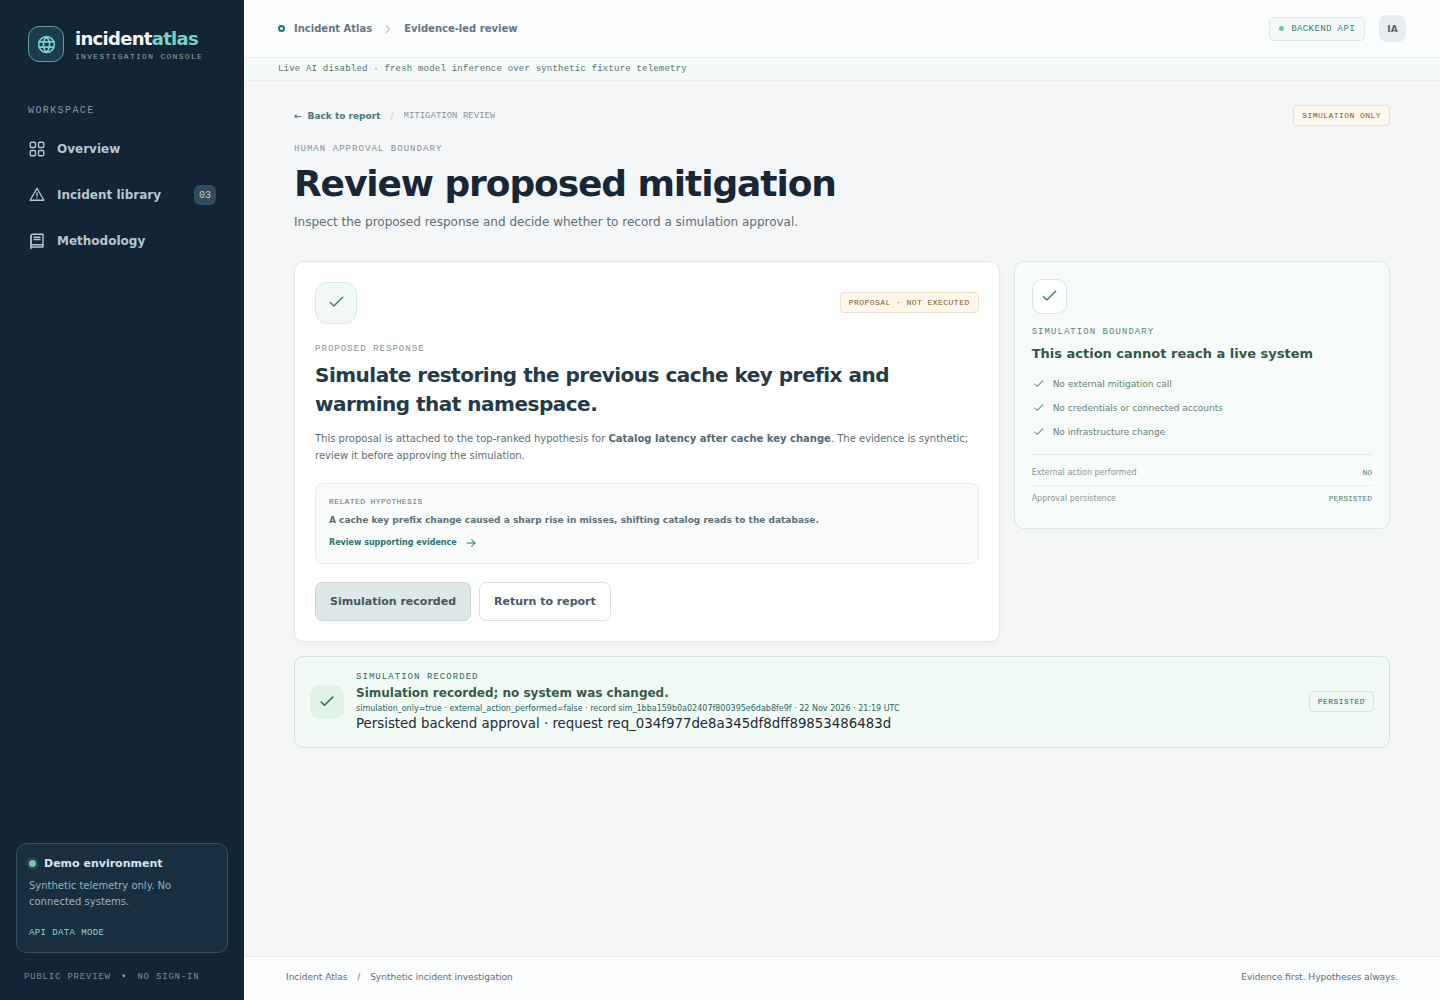
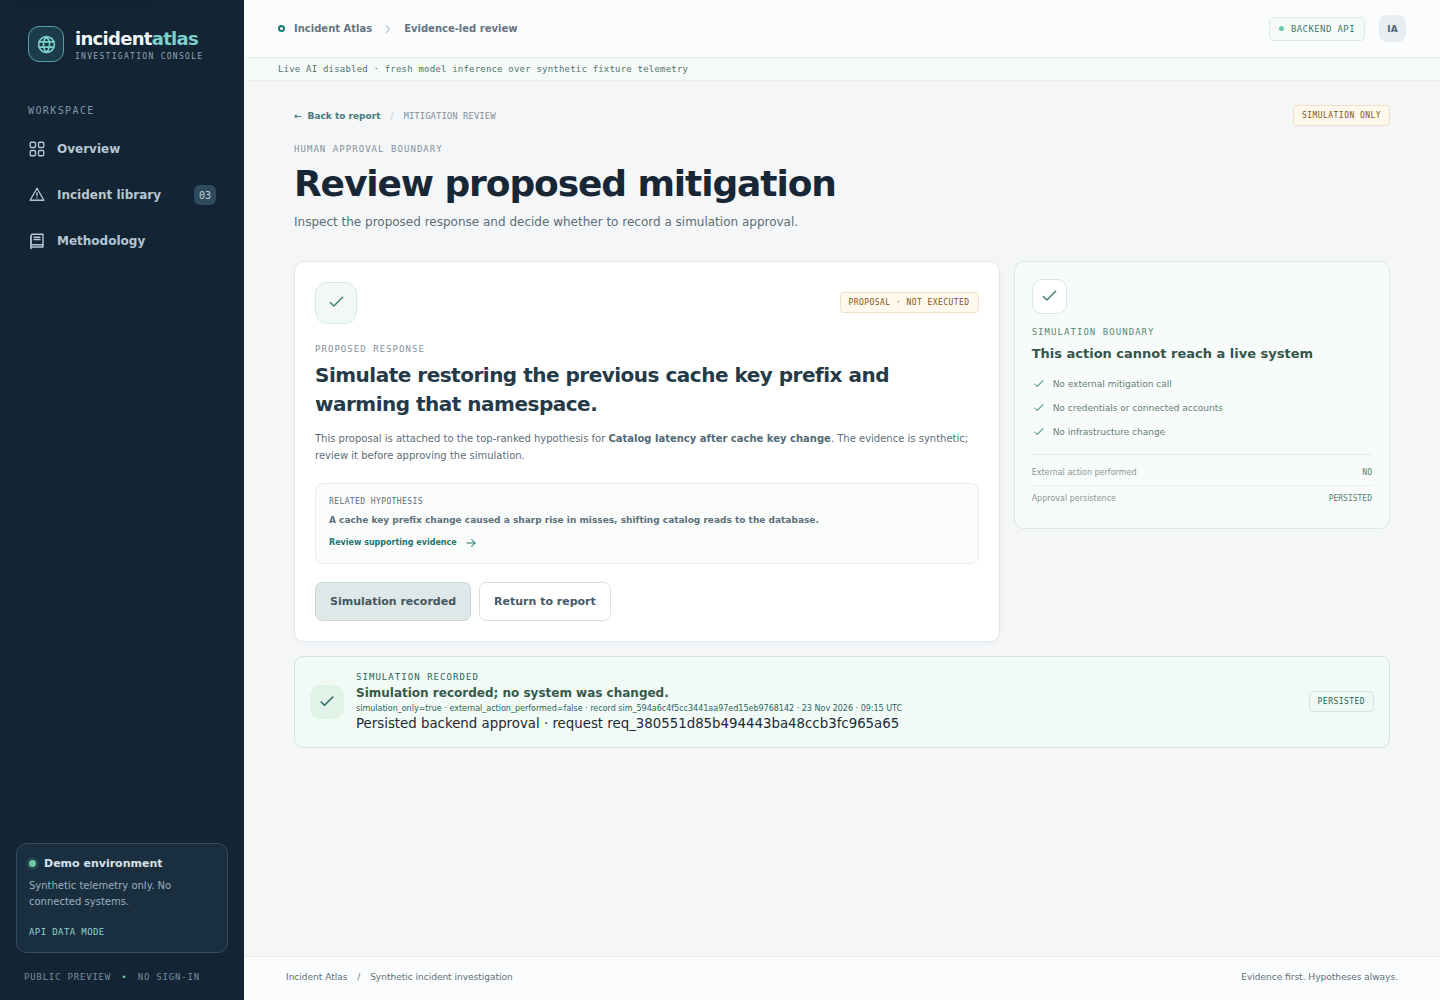
Refresh final audit report and CI screenshots

diff --git a/docs/predeployment-release-report.md b/docs/predeployment-release-report.md
@@ -1,13 +1,13 @@
 # Incident Atlas release report
 
 **Reviewed:** 2026-11-23  
-**Application revision verified:** [`b8168985fe2bd7fec807d6691f98824b0f9b4f46`](https://github.com/shaviJayasingha/incident-atlas/commit/b8168985fe2bd7fec807d6691f98824b0f9b4f46)  
-**Full CI run for this application revision:** [Run #24 — passed](https://github.com/shaviJayasingha/incident-atlas/actions/runs/45122787848)  
+**Release-candidate application revision:** [`8f7b31fbceb34ec45724916b0dd493f99c68bc80`](https://github.com/shaviJayasingha/incident-atlas/commit/8f7b31fbceb34ec45724916b0dd493f99c68bc80), proposed by [PR #5](https://github.com/shaviJayasingha/incident-atlas/pull/5).  
+**Full CI run for this application revision:** [Run #27 — passed](https://github.com/shaviJayasingha/incident-atlas/actions/runs/45145232854); all five jobs succeeded.  
 **Repository:** [shaviJayasingha/incident-atlas](https://github.com/shaviJayasingha/incident-atlas)  
 **Hosting status:** pre-deployment; no public URL exists.  
-**Release ZIP:** generated from the tracked source tree after this report refresh; its application code matches the verified revision above. The ZIP and SHA-256 sidecar are distributed separately.
+**Release ZIP:** CI generates a tracked-source archive and SHA-256 sidecar for the tested commit and uploads both as a 14-day workflow artifact. The final-tree artifact is available from the latest successful PR validation run; it is checked against the Git tree as part of that job.
 
-This is the current verification summary for the source revision above. Earlier reports and measurements remain historical; they do not replace these results.
+This report distinguishes the release-candidate application revision from the still-unmerged `main` branch. The code change is verified by the linked PR run; a follow-up report/screenshot refresh reruns the same gates against the updated source tree before the PR is ready to merge. Earlier reports and measurements remain historical; they do not replace these results.
 
 ## Release status
 
@@ -15,20 +15,20 @@ The repository and CI are public. The Netlify site, Render API, and managed Post
 
 The replay journey is designed to work without a visitor account or model key. `LIVE_ANALYSIS_ENABLED=false`; no genuine model request or provider-backed quality result has been verified. No OpenTelemetry Demo capture has been imported or evaluated. The repository has no license because the owner has not selected one; see [licensing-decision.md](licensing-decision.md).
 
-## Verification on commit b816898
+## Verification of the release candidate
 
-GitHub Actions run #24 completed successfully on the commit above. All five jobs passed.
+GitHub Actions run #27 completed successfully for the code tree in PR #5. All five jobs passed. The workflow artifact was built from GitHub's PR merge commit; its Git tree is identical to the PR head tree.
 
 | Gate | Observed result |
 |---|---|
 | PostgreSQL 17 migrations and repeat seeding | Passed. CI ran Alembic migrations and ran runtime seeding and fixture-manifest generation twice; both output pairs matched. |
 | Backend suite | **65 passed** against PostgreSQL 17; no PostgreSQL skips in CI. Includes runtime grant allow/deny checks, bounded seven-day rate cleanup, migration/bootstrap preflight, persisted approvals, and replay/evidence behavior. |
 | Python lint and dependency audit | `uv run ruff check .` passed. `uv audit --locked` found no known vulnerabilities or adverse statuses in 62 packages. |
-| Frontend tests and types | **11/11 tests passed**; `npm run typecheck` passed. |
+| Frontend tests and types | **13/13 tests passed**; `npm run typecheck` passed. Tests cover approval read-back and stable anonymous browser identity across reload. |
 | Production frontend build and dependency audit | Build passed with the explicit CI-only reserved `.invalid` API URL. Missing and reserved production URLs were rejected in dedicated checks. `npm audit --audit-level=moderate` found 0 vulnerabilities; the built bundle credential-marker scan passed. |
 | API image and runtime | Docker build passed; evaluation answer-key files were absent. With production-shaped PostgreSQL URLs, migration/bootstrap, runtime-role startup, readiness, stored replay, evidence resolution, and persisted simulated approval passed. Approval response had `simulation_only=true` and `external_action_performed=false`. |
-| Browser walkthrough | Playwright passed against local CI Vite, FastAPI, and PostgreSQL services: desktop replay, evidence navigation, persisted approval, 390 px mobile layout, and keyboard focus. This is not a public-site walkthrough. [Run #24 screenshot artifact](https://github.com/shaviJayasingha/incident-atlas/actions/runs/45122787848/artifacts/14793888268). |
-| Release archive | CI inspected a 102-file tracked-source ZIP; ZIP integrity and exclusion checks passed. The fresh archive delivered with this report is checked against the remote tree for its documentation-refresh revision, with the same application code revision above. |
+| Browser walkthrough | Playwright passed against local CI Vite, FastAPI, and PostgreSQL services: desktop and mobile replay, every citation, persisted approval after reload, a second browser sharing the same IP, no horizontal overflow, and keyboard focus. This is not a public-site walkthrough. [Run #27 screenshot artifact](https://github.com/shaviJayasingha/incident-atlas/actions/runs/45145232854/artifacts/14804016664). |
+| Release archive | CI inspected a **106-file** tracked-source ZIP, checked ZIP integrity/exclusions and uploaded the ZIP plus SHA-256 sidecar as a commit-scoped artifact. The release job compares every archived path and blob to the tested Git tree. The final report/screenshot refresh triggers the same check again. |
 
 ### Commands represented by CI
 
@@ -42,7 +42,7 @@ uv run python -m incident_atlas.cli evaluate-fixtures
 uv run python -m incident_atlas.cli evaluate-expanded
 ```
 
-The frontend job ran `npm ci`, `npm test`, `npm run typecheck`, the production API configuration failure checks, `npm run build`, `npm audit --audit-level=moderate`, and the browser-bundle secret-marker scan. The container job built and ran the API image with PostgreSQL. The browser job ran the local Playwright visitor journey. The archive job ran:
+The frontend job ran `npm ci`, `npm test` (13 tests), `npm run typecheck`, the production API configuration failure checks, `npm run build`, `npm audit --audit-level=moderate`, and the browser-bundle secret-marker scan. The container job built and ran the API image with PostgreSQL. The browser job ran the local Playwright visitor journey. The archive job ran:
 
 ```bash
 python scripts/build_release_zip.py --output "$RUNNER_TEMP/incident-atlas-release.zip"
@@ -50,7 +50,7 @@ python scripts/build_release_zip.py --output "$RUNNER_TEMP/incident-atlas-releas
 
 ### Local checks in this workspace
 
-The local backend suite passed **42 tests and skipped 23 PostgreSQL-marked tests** because this sandbox cannot start the embedded PostgreSQL server (`PermissionError: Operation not permitted`). The full PostgreSQL result above comes from CI, not those local skips. Local `ruff`, Python dependency audit, frontend 11/11 tests, typecheck, production build, npm audit, and evaluation commands passed. Docker/Podman are unavailable locally; the CI container job supplies that evidence. The public deployment smoke command was syntax-checked but not run against real origins because none exist.
+The local backend suite passed **42 tests and skipped 23 PostgreSQL-marked tests** because this sandbox cannot start the embedded PostgreSQL server (`PermissionError: Operation not permitted`). The full PostgreSQL result above comes from CI, not those local skips. Local `ruff`, Python dependency audit, frontend 13/13 tests, typecheck, production build, npm audit, and evaluation commands passed. Local Playwright could not launch Chromium because sandbox socket/ptrace permissions blocked the browser; Docker/Podman are unavailable locally. GitHub-hosted CI supplies the PostgreSQL, container, and browser evidence. The public deployment smoke command was syntax-checked but not run against real origins because none exist.
 
 ## Evaluation evidence and limits
 
@@ -58,7 +58,7 @@ The current rules-regression dataset is **12 project-authored synthetic cases**:
 
[1 lines of base64/hex data omitted]
 
-CI run #24 measured 1.0000 labeled top-1, 1.0000 mean reciprocal rank, 1.0000 expected-support evidence recall, 1.0000 abstention accuracy, and 1.0000 overall decision accuracy on this fixed dataset. These are **synthetic regression results**, not real-world incident accuracy. The earlier 0.5222 support-recall measurement belongs to the historical Step 5/6 evaluation; the present score is tied to the dataset hash above and should not be generalized beyond it.
+CI run #27 measured 1.0000 labeled top-1, 1.0000 mean reciprocal rank, 1.0000 expected-support evidence recall, 1.0000 abstention accuracy, and 1.0000 overall decision accuracy on this fixed dataset. These are **synthetic regression results**, not real-world incident accuracy. The earlier 0.5222 support-recall measurement belongs to the historical Step 5/6 evaluation; the present score is tied to the dataset hash above and should not be generalized beyond it.
 
 The executable OTLP/JSON importer is covered by a synthetic parser fixture only. There is no verified OpenTelemetry Demo version, scenario capture, imported-data hash, label, or Demo evaluation result. Keep all public scenario provenance labeled authored synthetic.
 

diff --git a/docs/portfolio-case-study.md b/docs/portfolio-case-study.md
@@ -14,13 +14,13 @@ Stored replay is the no-key path. Its provenance says `stored_replay` and `model
 
 ## Evaluation and limitations
 
[2 lines of base64/hex data omitted]
 
-The application revision verified in CI is [`b8168985fe2bd7fec807d6691f98824b0f9b4f46`](https://github.com/shaviJayasingha/incident-atlas/commit/b8168985fe2bd7fec807d6691f98824b0f9b4f46). [Run #24](https://github.com/shaviJayasingha/incident-atlas/actions/runs/45122787848) passed 65 backend tests, 11 frontend tests, typecheck, build, dependency audits, PostgreSQL migrations/seeding, container runtime smoke, local desktop/mobile browser smoke, and release ZIP validation. These are CI/local-app results, not public deployment evidence.
+The release-candidate application revision is [`8f7b31fbceb34ec45724916b0dd493f99c68bc80`](https://github.com/shaviJayasingha/incident-atlas/commit/8f7b31fbceb34ec45724916b0dd493f99c68bc80), in [PR #5](https://github.com/shaviJayasingha/incident-atlas/pull/5). [Run #27](https://github.com/shaviJayasingha/incident-atlas/actions/runs/45145232854) passed 65 PostgreSQL-backed backend tests, 13 frontend tests, typecheck, build, dependency audits, migrations and repeated seeding, API container runtime smoke, desktop and mobile replay including every citation, approval restoration after reload, separate same-IP browser approval, and release ZIP validation. These are CI/local-app results, not public deployment evidence.
 
 ## Browser screenshots
 
-The following screenshots are captured by the CI browser run against the local Vite site and local FastAPI/PostgreSQL services seeded with the synthetic scenarios. They show CI/local behavior only; no public deployment is implied.
+The following screenshots are captured by [CI run #27](https://github.com/shaviJayasingha/incident-atlas/actions/runs/45145232854) against the local Vite site and local FastAPI/PostgreSQL services seeded with synthetic scenarios. They show CI/local behavior only; no public deployment is implied. The matching screenshot artifact is retained with the CI run for 14 days.
 
 ![Incident Atlas desktop dashboard with the no-sign-in synthetic incident entry point.](screenshots/01-dashboard-desktop.png)
 

diff --git a/docs/step6-report.md b/docs/step6-report.md
@@ -22,7 +22,7 @@ This is the Step 6 snapshot. Later release hardening changes and the current dep
 
 The API has no public telemetry-upload or user-prompt endpoint. Telemetry strings are treated as untrusted text in the live system prompt; provider tests put prompt-like text in log messages and nested hostile evidence fields, then verify they remain JSON data, the system instruction is unchanged, the request has no tools, and `store=false`. Evidence IDs must be non-empty and resolve inside the recorded snapshot. Empty-support hypotheses, malformed output, refusals, timeouts, and unknown evidence IDs are rejected. Schema validation and citation membership checks do not prove that a model's wording is semantically supported by a real cited record; that remains a human-review and evaluation limitation.
 
-Public replay and evidence records are intentionally readable without authentication: the product has no accounts, uses synthetic public fixtures, and supports deep links without session state. Anonymous rate/approval deduplication is scoped by an HMAC of the request source address, not a durable browser identity.
+Public replay and evidence records are intentionally readable without authentication: the product has no accounts, uses synthetic public fixtures, and supports deep links without session state. At this report's snapshot, approval deduplication used an HMAC of the request source address. The later completion-audit change in PR #5 added an anonymous browser ID for approval write/readback so separate visitors on one shared IP can record separate simulations and the same browser can restore its approval after refresh; request rate limits remain network-scoped. This document preserves the earlier Step 6 findings and is not the current implementation report.
 
 ## Evidence-recall investigation and evaluation
 
@@ -69,5 +69,5 @@ The first hosted CI attempts exposed test assertions that did not match the docu
 - No genuine provider request was made because no server-side model key is available. Mocked tests do not verify provider account access, current model availability, live structured output, or billed usage.
 - The public deployed desktop/mobile browser walkthrough remains open because there is no deployed URL.
 - Separate the runtime database role from migration/evaluation access and verify grants on a production-like PostgreSQL instance.
-- Semantic grounding of validly cited live claims remains a human-review/evaluation concern; the test set is nine small synthetic cases.
+- Semantic grounding of validly cited live claims remains a human-review/evaluation concern; the expanded rules regression set contains 12 small authored synthetic cases and does not establish real-world accuracy.
 - Production proxy/IP handling, hosted CORS origins, public rate limits, and secret configuration remain deployment-dependent and were not exercised against a deployed service. No frontend lint target is configured; `npm run lint` is not an available command.

diff --git a/README.md b/README.md
@@ -4,7 +4,7 @@ Incident Atlas is a no-sign-in incident investigation demo. Visitors can inspect
 
 **Release status:** The source repository and CI are public. The website, API, and PostgreSQL database have not been deployed. There is no live public demo URL. Hosting remains gated on an approved spending cap and account access. Live AI remains disabled until proxy trust, global request limits, and a genuine provider request are verified.
 
-**Verified application revision:** [`b8168985fe2bd7fec807d6691f98824b0f9b4f46`](https://github.com/shaviJayasingha/incident-atlas/commit/b8168985fe2bd7fec807d6691f98824b0f9b4f46), with [GitHub Actions run #24 passing](https://github.com/shaviJayasingha/incident-atlas/actions/runs/45122787848). The release report records the exact checks, synthetic dataset hash, local skips, and deployment blockers.
+**Release-candidate application revision:** [`8f7b31fbceb34ec45724916b0dd493f99c68bc80`](https://github.com/shaviJayasingha/incident-atlas/commit/8f7b31fbceb34ec45724916b0dd493f99c68bc80), in [PR #5](https://github.com/shaviJayasingha/incident-atlas/pull/5). [GitHub Actions run #27 passed](https://github.com/shaviJayasingha/incident-atlas/actions/runs/45145232854): PostgreSQL-backed backend checks, frontend tests/typecheck/build, dependency audits, API container runtime, desktop/mobile browser journey, and release ZIP validation. This is CI evidence for the local application, not a public deployment. The release report records exact results and remaining gates.
 
 ## Case study and source
 

diff --git a/docs/deployment.md b/docs/deployment.md
@@ -3,7 +3,7 @@
 **Target:** GitHub → Netlify React/Vite site → Render FastAPI and PostgreSQL.
 **Current state:** configuration and CI are prepared; no Render or Netlify resources have been provisioned. Do not create recurring resources until the account, billing setup, and monthly spending cap are approved.
 
-**Verified application revision:** [`b8168985fe2bd7fec807d6691f98824b0f9b4f46`](https://github.com/shaviJayasingha/incident-atlas/commit/b8168985fe2bd7fec807d6691f98824b0f9b4f46); [CI run #24 passed](https://github.com/shaviJayasingha/incident-atlas/actions/runs/45122787848). PostgreSQL grants and container startup passed in GitHub-hosted CI against PostgreSQL 17. The actual Render managed-database preflight has not run; its role privileges remain an explicit deployment gate.
+**Release-candidate application revision:** [`8f7b31fbceb34ec45724916b0dd493f99c68bc80`](https://github.com/shaviJayasingha/incident-atlas/commit/8f7b31fbceb34ec45724916b0dd493f99c68bc80) in [PR #5](https://github.com/shaviJayasingha/incident-atlas/pull/5); [CI run #27 passed](https://github.com/shaviJayasingha/incident-atlas/actions/runs/45145232854). PostgreSQL grants and container startup passed in GitHub-hosted CI against PostgreSQL 17. The actual Render managed-database preflight has not run; its role privileges remain an explicit deployment gate. No production host has been provisioned.
 
 ## Local Docker Compose
 

diff --git a/docs/product-requirements.md b/docs/product-requirements.md
@@ -19,7 +19,7 @@ The demo uses fixed, synthetic incidents. A live AI run is a fresh model inferen
 6. Review ranked hypotheses. Each hypothesis shows a plain-language explanation, uncertainty label, evidence that supports it, evidence that weakens it, and a safe next check. Evidence links open the matching timeline or telemetry item.
 7. Review a suggested mitigation as a proposal. Select **Approve simulated mitigation**, read a confirmation that no service will be changed, and confirm. The app records a simulation approval event and displays “Simulation recorded; no system was changed.”
 8. After reloading the mitigation page, the same anonymous browser sees its persisted simulation. A separate browser sharing the same public IP can record its own simulation without seeing the other browser's approval.
-8. Visit **Methodology & evaluation** to see how synthetic scenarios are generated, what “live” means in this demo, and how the system is evaluated.
+9. Visit **Methodology & evaluation** to see how synthetic scenarios are generated, what “live” means in this demo, and how the system is evaluated.
 
 ## Pages and routes
 
